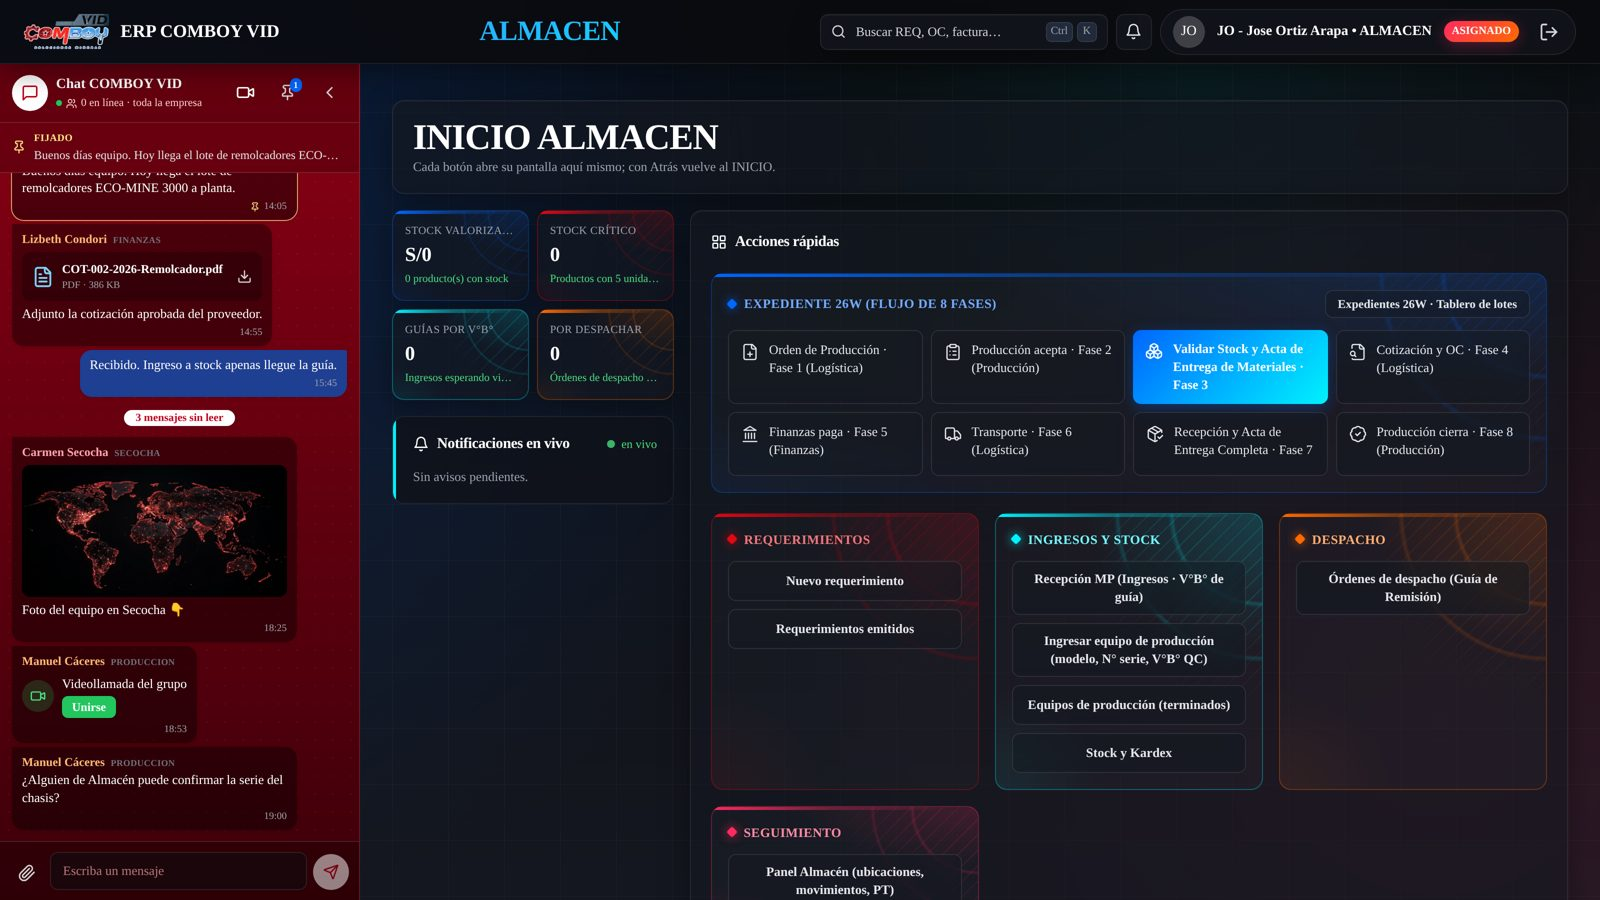
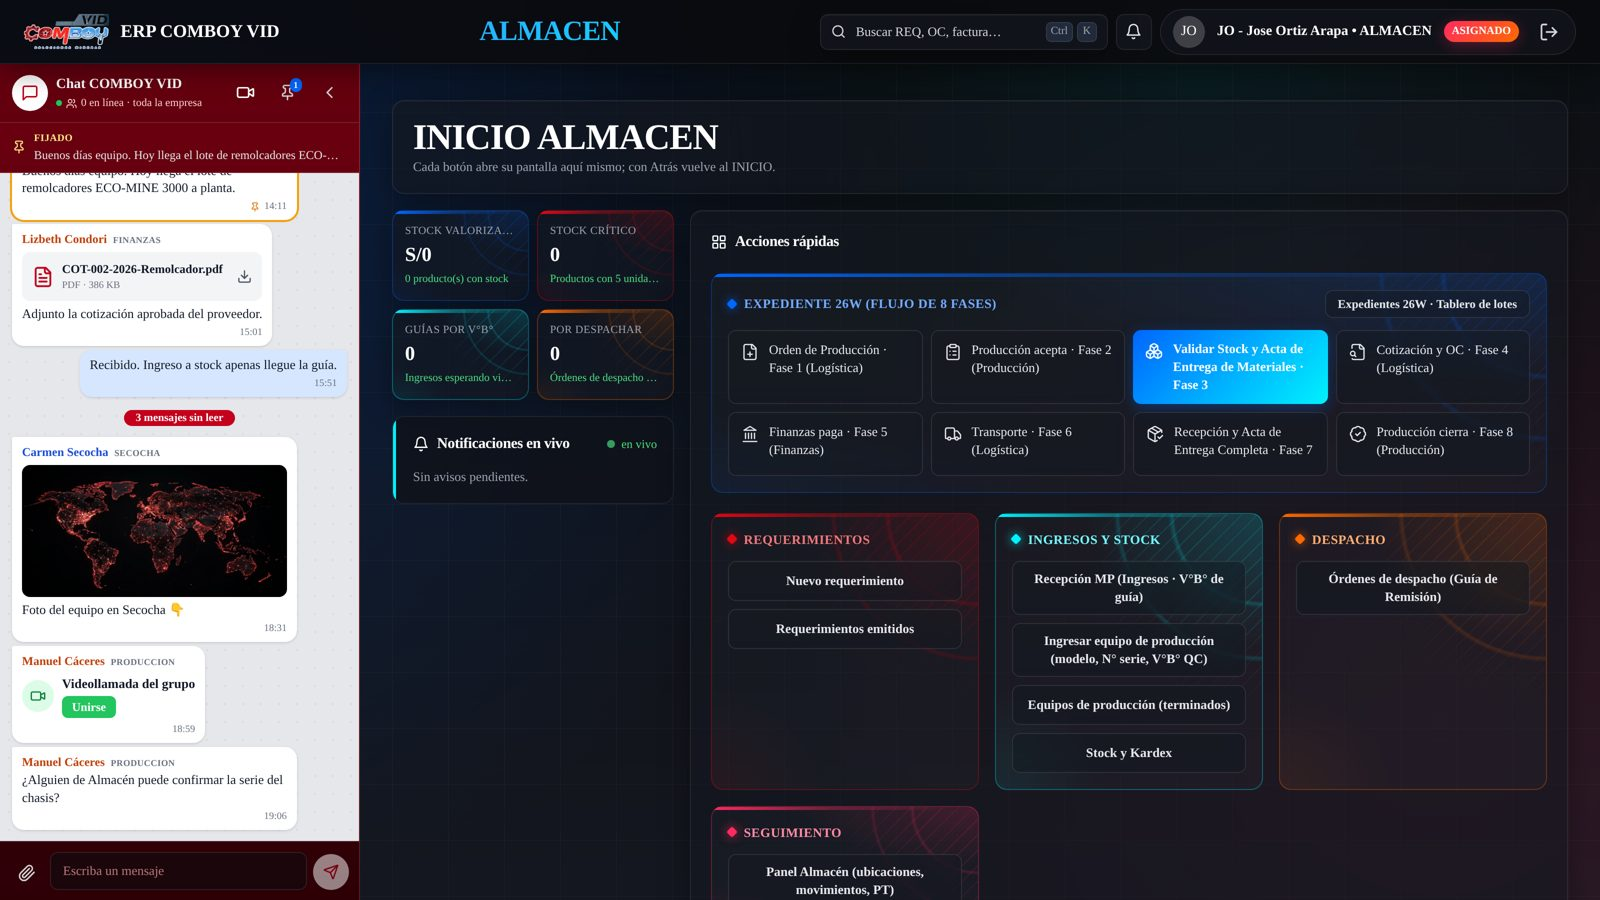
Chat grupal: área de mensajes en gris claro con texto oscuro
Claude-Session: https://claude.ai/code/session_01SNK96dJ8PBkEZtQ1b1NvbG

Changed region(s): [[0.0, 0.1867, 0.25, 0.9333], [0.5, 0.5911, 0.5312, 0.6222]]

diff --git a/components/chat/ChatGlobal.tsx b/components/chat/ChatGlobal.tsx
@@ -20,7 +20,7 @@ const dia = (iso: string) => {
   return d.toLocaleDateString("es-PE", { weekday: "long", day: "2-digit", month: "long" });
 };
 /** Color fijo por persona (como en los grupos de WhatsApp). */
-const COLORES = ["#7dd3fc", "#fda4af", "#86efac", "#fcd34d", "#c4b5fd", "#67e8f9", "#fdba74", "#f9a8d4"];
+const COLORES = ["#b91c1c", "#1d4ed8", "#047857", "#b45309", "#7c3aed", "#0e7490", "#c2410c", "#be185d"];
 const colorDe = (u: string) => COLORES[[...u].reduce((a, c) => a + c.charCodeAt(0), 0) % COLORES.length];
 
 /**
@@ -221,20 +221,20 @@ export function ChatGlobal({ sesion, modulo, abierto, setAbierto }: { sesion: Se
       )}
 
       {verFijados ? (
-        <div className="min-h-0 flex-1 space-y-2 overflow-y-auto p-3">
-          <p className="text-[12px] font-bold uppercase tracking-wide text-[#a1a1aa]">Mensajes fijados ({fijados.length})</p>
-          {fijados.length === 0 && <p className="text-[12px] text-[#fecdd3]">No hay mensajes fijados. Pase el mouse sobre un mensaje y toque el pin.</p>}
+        <div className="chat-claro min-h-0 flex-1 space-y-2 overflow-y-auto p-3">
+          <p className="text-[12px] font-bold uppercase tracking-wide text-[#4b5563]">Mensajes fijados ({fijados.length})</p>
+          {fijados.length === 0 && <p className="text-[12px] text-[#4b5563]">No hay mensajes fijados. Pase el mouse sobre un mensaje y toque el pin.</p>}
           {fijados.map((m) => (
-            <div key={m.id} className="rounded-lg border border-white/[0.12] bg-black/30 p-2.5">
+            <div key={m.id} className="rounded-lg border border-[#d1d5db] bg-white p-2.5 shadow-sm">
               <button type="button" onClick={() => irA(m.id)} className="block w-full text-left">
                 <span className="block text-[11px] font-semibold" style={{ color: colorDe(m.usuario) }}>
                   {m.nombre || m.usuario} · {dia(m.creado)} {hora(m.creado)}
                 </span>
-                <span className="mt-0.5 block break-words text-[13px] text-white">{resumen(m)}</span>
+                <span className="mt-0.5 block break-words text-[13px] text-[#111827]">{resumen(m)}</span>
               </button>
-              <span className="mt-1 flex items-center justify-between text-[10px] text-[#71717a]">
+              <span className="mt-1 flex items-center justify-between text-[10px] text-[#6b7280]">
                 <span>Fijado por {m.fijado_por || "—"}</span>
-                <button type="button" onClick={() => cambiarFijado(m)} className="inline-flex items-center gap-1 text-[#fca5a5] hover:underline">
+                <button type="button" onClick={() => cambiarFijado(m)} className="inline-flex items-center gap-1 text-[#b91c1c] hover:underline">
                   <PinOff size={11} /> Desfijar
                 </button>
               </span>
@@ -248,12 +248,12 @@ export function ChatGlobal({ sesion, modulo, abierto, setAbierto }: { sesion: Se
             const el = e.currentTarget;
             setAbajo(el.scrollHeight - el.scrollTop - el.clientHeight < 60);
           }}
-          className="chat-fondo relative min-h-0 flex-1 overflow-y-auto px-3 py-2"
+          className="chat-fondo chat-claro relative min-h-0 flex-1 overflow-y-auto px-3 py-2"
         >
           {faltaTabla && (
-            <p className="my-2 rounded-lg bg-white/[0.05] px-3 py-2 text-[12px] italic text-[#a1a1aa]">Falta activar el chat: ejecute supabase/migrations/20261128_chat_global.sql en Supabase.</p>
+            <p className="my-2 rounded-lg bg-white px-3 py-2 text-[12px] italic text-[#4b5563]">Falta activar el chat: ejecute supabase/migrations/20261128_chat_global.sql en Supabase.</p>
           )}
-          {!faltaTabla && mensajes.length === 0 && <p className="my-6 text-center text-[12px] text-[#a1a1aa]">Sin mensajes todavía. Escriba el primero.</p>}
+          {!faltaTabla && mensajes.length === 0 && <p className="my-6 text-center text-[12px] text-[#4b5563]">Sin mensajes todavía. Escriba el primero.</p>}
           {mensajes.map((m) => {
             const d = dia(m.creado);
             const sepDia = d !== diaPrevio;
@@ -265,12 +265,12 @@ export function ChatGlobal({ sesion, modulo, abierto, setAbierto }: { sesion: Se
               <div key={m.id}>
                 {sepDia && (
                   <p className="my-2 text-center">
-                    <span className="rounded-md bg-white/[0.07] px-2 py-0.5 text-[10px] font-semibold uppercase tracking-wide text-[#a1a1aa]">{d}</span>
+                    <span className="rounded-md bg-white px-2 py-0.5 text-[10px] font-semibold uppercase tracking-wide text-[#4b5563] shadow-sm">{d}</span>
                   </p>
                 )}
                 {sepNuevo && (
                   <p className="my-2 text-center">
-                    <span className="rounded-full bg-white px-3 py-0.5 text-[11px] font-bold text-[#c4001c]">
+                    <span className="rounded-full bg-[#c4001c] px-3 py-0.5 text-[11px] font-bold text-white">
                       {nuevosAlAbrir} {nuevosAlAbrir === 1 ? "mensaje sin leer" : "mensajes sin leer"}
                     </span>
                   </p>
@@ -286,7 +286,7 @@ export function ChatGlobal({ sesion, modulo, abierto, setAbierto }: { sesion: Se
         <button
           type="button"
           onClick={() => lista.current?.scrollTo({ top: lista.current.scrollHeight, behavior: "smooth" })}
-          className={`absolute bottom-24 right-4 flex items-center gap-1 rounded-full px-3 py-1.5 text-[12px] font-semibold text-white shadow-lg ${sinLeer ? "chat-parpadeo bg-white !text-[#c4001c]" : "bg-black/50"}`}
+          className={`absolute bottom-24 right-4 flex items-center gap-1 rounded-full px-3 py-1.5 text-[12px] font-semibold text-white shadow-lg ${sinLeer ? "chat-parpadeo bg-[#c4001c]" : "bg-[#374151]"}`}
         >
           <ChevronDown size={14} /> {sinLeer ? `${sinLeer} nuevos` : "Bajar"}
         </button>
@@ -340,21 +340,21 @@ function resumen(m: MensajeChat): string {
 function Burbuja({ m, mio, url, onFijar, onCarga }: { m: MensajeChat; mio: boolean; url?: string; onFijar: () => void; onCarga: () => void }) {
   return (
     <div id={`chat-msg-${m.id}`} className={`group my-1 flex ${mio ? "justify-end" : "justify-start"} rounded-lg transition-colors`}>
-      <div className={`relative max-w-[85%] rounded-xl px-2.5 py-1.5 shadow ${mio ? "rounded-tr-sm bg-[#0b4fb3]/80" : "rounded-tl-sm bg-black/40"} ${m.fijado ? "ring-1 ring-[#fde68a]/70" : ""}`}>
+      <div className={`relative max-w-[85%] rounded-xl px-2.5 py-1.5 shadow ${mio ? "rounded-tr-sm bg-[#d6e6ff]" : "rounded-tl-sm bg-white"} ${m.fijado ? "ring-2 ring-[#f59e0b]" : ""}`}>
         {!mio && (
           <span className="flex items-baseline gap-1.5">
             <span className="truncate text-[12px] font-semibold" style={{ color: colorDe(m.usuario) }}>
               {m.nombre || m.usuario}
             </span>
-            {m.modulo && <span className="shrink-0 text-[9px] font-bold uppercase tracking-wide text-[#71717a]">{m.modulo}</span>}
+            {m.modulo && <span className="shrink-0 text-[9px] font-bold uppercase tracking-wide text-[#6b7280]">{m.modulo}</span>}
           </span>
         )}
         {m.tipo === "llamada" ? (
           <span className="my-1 flex items-center gap-2">
-            <span className="flex h-8 w-8 items-center justify-center rounded-full bg-[#22c55e]/20 text-[#4ade80]">
+            <span className="flex h-8 w-8 items-center justify-center rounded-full bg-[#dcfce7] text-[#15803d]">
               <Video size={16} />
             </span>
-            <span className="text-[13px] text-white">
+            <span className="text-[13px] font-semibold text-[#111827]">
               Videollamada del grupo
               <a href={m.texto} target="_blank" rel="noopener noreferrer" className="mt-0.5 block w-fit rounded-md bg-[#22c55e] px-2.5 py-0.5 text-[12px] font-bold text-white hover:bg-[#16a34a]">
                 Unirse
@@ -364,11 +364,11 @@ function Burbuja({ m, mio, url, onFijar, onCarga }: { m: MensajeChat; mio: boole
         ) : (
           <>
             {m.adjunto_path && <Adjunto m={m} url={url} onCarga={onCarga} />}
-            {m.texto && <span className="block whitespace-pre-wrap break-words text-[13px] leading-snug text-white">{m.texto}</span>}
+            {m.texto && <span className="block whitespace-pre-wrap break-words text-[13px] leading-snug text-[#111827]">{m.texto}</span>}
           </>
         )}
-        <span className="mt-0.5 flex items-center justify-end gap-1 text-[10px] text-[#a1a1aa]">
-          {m.fijado && <Pin size={10} className="text-[#fde68a]" aria-label="Fijado" />}
+        <span className="mt-0.5 flex items-center justify-end gap-1 text-[10px] text-[#6b7280]">
+          {m.fijado && <Pin size={10} className="text-[#d97706]" aria-label="Fijado" />}
           {hora(m.creado)}
         </span>
         <button
@@ -376,7 +376,7 @@ function Burbuja({ m, mio, url, onFijar, onCarga }: { m: MensajeChat; mio: boole
           onClick={onFijar}
           title={m.fijado ? "Desfijar" : "Fijar mensaje"}
           aria-label={m.fijado ? "Desfijar mensaje" : "Fijar mensaje"}
-          className={`absolute top-1 ${mio ? "-left-7" : "-right-7"} rounded-md p-1 text-[#a1a1aa] opacity-60 hover:bg-white/[0.08] hover:text-[#00f2fe] focus:opacity-100 lg:opacity-0 lg:group-hover:opacity-100`}
+          className={`absolute top-1 ${mio ? "-left-7" : "-right-7"} rounded-md p-1 text-[#6b7280] opacity-60 hover:bg-black/[0.06] hover:text-[#c4001c] focus:opacity-100 lg:opacity-0 lg:group-hover:opacity-100`}
         >
           {m.fijado ? <PinOff size={13} /> : <Pin size={13} />}
         </button>
@@ -386,7 +386,7 @@ function Burbuja({ m, mio, url, onFijar, onCarga }: { m: MensajeChat; mio: boole
 }
 
 function Adjunto({ m, url, onCarga }: { m: MensajeChat; url?: string; onCarga: () => void }) {
-  if (!url) return <span className="my-1 block h-10 w-40 animate-pulse rounded-lg bg-white/[0.06]" aria-label="Cargando archivo" />;
+  if (!url) return <span className="my-1 block h-10 w-40 animate-pulse rounded-lg bg-black/10" aria-label="Cargando archivo" />;
   if (esImagen(m))
     return (
       <a href={url} target="_blank" rel="noopener noreferrer" className="my-1 block">
@@ -397,15 +397,15 @@ function Adjunto({ m, url, onCarga }: { m: MensajeChat; url?: string; onCarga: (
   if (esVideo(m)) return <video src={url} controls preload="metadata" onLoadedMetadata={onCarga} className="my-1 max-h-60 w-full rounded-lg" />;
   if (esAudio(m)) return <audio src={url} controls preload="metadata" className="my-1 w-56 max-w-full" />;
   return (
-    <a href={url} target="_blank" rel="noopener noreferrer" download={m.adjunto_nombre ?? undefined} className="my-1 flex items-center gap-2 rounded-lg bg-black/25 px-2.5 py-2 hover:bg-black/40">
-      <FileText size={22} className="shrink-0 text-[#7dd3fc]" />
+    <a href={url} target="_blank" rel="noopener noreferrer" download={m.adjunto_nombre ?? undefined} className="my-1 flex items-center gap-2 rounded-lg bg-[#f3f4f6] px-2.5 py-2 hover:bg-[#e5e7eb]">
+      <FileText size={22} className="shrink-0 text-[#c4001c]" />
       <span className="min-w-0 flex-1">
-        <span className="block truncate text-[12px] font-semibold text-white">{m.adjunto_nombre}</span>
-        <span className="block text-[10px] uppercase text-[#a1a1aa]">
+        <span className="block truncate text-[12px] font-semibold text-[#111827]">{m.adjunto_nombre}</span>
+        <span className="block text-[10px] uppercase text-[#6b7280]">
           {(m.adjunto_nombre?.split(".").pop() ?? "").slice(0, 5)} · {tamanoLegible(m.adjunto_bytes)}
         </span>
       </span>
-      <Download size={15} className="shrink-0 text-[#d4d4d8]" />
+      <Download size={15} className="shrink-0 text-[#4b5563]" />
     </a>
   );
 }

diff --git a/app/globals.css b/app/globals.css
@@ -392,9 +392,10 @@ body[data-modo-pestana] [data-guardar-pestana] {
   50% { opacity: 0.5; box-shadow: 0 0 20px 5px rgba(255, 42, 60, 0.9); }
 }
 .chat-parpadeo { animation: chat-parpadeo 1s ease-in-out infinite; }
-.chat-resaltado { background: rgba(0, 242, 254, 0.14); }
+.chat-resaltado { background: rgba(196, 0, 28, 0.12); }
+.chat-claro { background-color: #e5e7eb; }
 .chat-fondo {
-  background-image: radial-gradient(rgba(255, 255, 255, 0.035) 1px, transparent 1px);
+  background-image: radial-gradient(rgba(0, 0, 0, 0.06) 1px, transparent 1px);
   background-size: 18px 18px;
 }
 /* Fondo rojo de la barra del chat (pedido de Williams 2026-11-16: izquierda, fondo rojo) */
